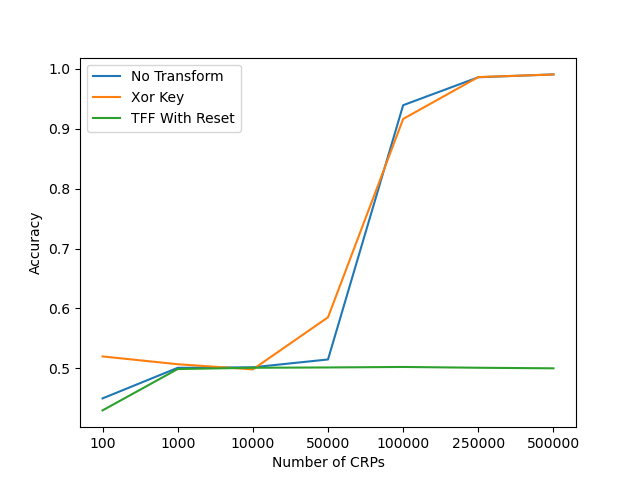
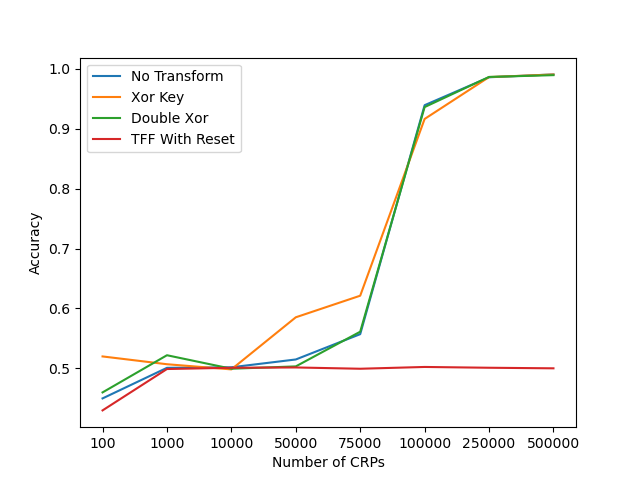
added double xor

diff --git a/__main__.py b/__main__.py
@@ -3,9 +3,9 @@ environ['TF_CPP_MIN_LOG_LEVEL'] = '3'
 import matplotlib.pyplot as plt
 
 from attacker import Attacker
-from CRPTransform import NoTransform, XorKeyTransform, TFFWithResetTransform, ElipticCurveTransform
+from CRPTransform import NoTransform, XorKeyTransform, DoubleXorTransform, TFFWithResetTransform, ElipticCurveTransform
 
-CRPNUMS = [100, 1000, 10000, 50000, 100000, 250000, 500000]
+CRPNUMS = [100, 1000, 10000, 50000, 75000, 100000, 250000, 500000]
 
 def main():
     notf_accuracies = []
@@ -19,6 +19,12 @@ def main():
         xor_key_attacker = Attacker(XorKeyTransform, key=0xfedcba0987654321, N=N, n=64, k=5)
         xor_key_attacker.fit_attack()
         xor_accuracies.append(xor_key_attacker.attack_accuracy())
+
+    double_xor_accuracies = []
+    for N in CRPNUMS:
+        double_xor_attacker = Attacker(DoubleXorTransform, key=0xfedcba0987654321, N=N, n=64, k=5)
+        double_xor_attacker.fit_attack()
+        double_xor_accuracies.append(double_xor_attacker.attack_accuracy())
     
     tf_accuracies = []
     for N in CRPNUMS:
@@ -26,20 +32,22 @@ def main():
         tff_attacker.fit_attack()
         tf_accuracies.append(tff_attacker.attack_accuracy())
 
-    plot_accuracies(notf_accuracies, xor_accuracies, tf_accuracies)
+    plot_accuracies(notf_accuracies, xor_accuracies, double_xor_accuracies, tf_accuracies)
 
     notf_entropy = notf_attacker.transform_entropy()
     xor_entropy = xor_key_attacker.transform_entropy()
+    double_xor_entropy = double_xor_attacker.transform_entropy()
     tf_entropy = tff_attacker.transform_entropy()
 
-    plot_entropies(notf_entropy, xor_entropy, tf_entropy)
+    plot_entropies(notf_entropy, xor_entropy, double_xor_entropy, tf_entropy)
 
     print("TODO: ELIPTIC CURVE ATTACKS")
 
-def plot_accuracies(notf_accuracies, xor_accuracies, tf_accuracies):
-    print("accuracies:", notf_accuracies, xor_accuracies, tf_accuracies)
+def plot_accuracies(notf_accuracies, xor_accuracies, double_xor_accuracies, tf_accuracies):
+    print("accuracies:", notf_accuracies, xor_accuracies, double_xor_accuracies, tf_accuracies)
     plt.plot(notf_accuracies, label="No Transform")
     plt.plot(xor_accuracies, label="Xor Key")
+    plt.plot(double_xor_accuracies, label="Double Xor")
     plt.plot(tf_accuracies, label="TFF With Reset")
     plt.xticks(list(range(len(CRPNUMS))), CRPNUMS)
     plt.xlabel("Number of CRPs")
@@ -48,10 +56,11 @@ def plot_accuracies(notf_accuracies, xor_accuracies, tf_accuracies):
     plt.savefig("figs/accuracies.png")
     plt.clf()
 
-def plot_entropies(notf_entropy, xor_entropy, tf_entropy):
-    print("entropies:", notf_entropy, xor_entropy, tf_entropy)
-    plt.bar(["No Transform", "Xor Key", "TFF With Reset"], [notf_entropy, xor_entropy, tf_entropy])
-    plt.legend()
+def plot_entropies(notf_entropy, xor_entropy, double_xor_entropy, tf_entropy):
+    print("entropies:", notf_entropy, xor_entropy, double_xor_entropy, tf_entropy)
+    plt.bar(["No Transform", "Xor Key", "Double Xor", "TFF With Reset"], 
+            [notf_entropy, xor_entropy, double_xor_entropy, tf_entropy])
+    plt.ylabel("Entropy")
     plt.savefig("figs/entropies.png")
     plt.clf()
 

diff --git a/CRPTransform.py b/CRPTransform.py
@@ -8,6 +8,18 @@ def XorKeyTransform(challenges, key):
     return array([[ 1 if challenge[i] != arrayed_key[i] else -1 
         for i in range(len(arrayed_key))] for challenge in challenges]), key # return the xor
 
+def DoubleXorTransform(challenges, key):
+    arrayed_key = [-1 if bit == '0' else 1 for bit in bin(key)[2:]] # '0' -> -1, '1' -> 1, 0b cut off
+    first = arrayed_key[:len(arrayed_key)//2] * 2
+    second = arrayed_key[len(arrayed_key)//2:] * 2
+    assert len(first) == len(second) == len(challenges[0])
+
+    for k in [first, second]:
+        challenges = array([[ 1 if challenge[i] != k[i] else -1 
+                        for i in range(len(k))] for challenge in challenges])
+
+    return challenges, key # return the xor
+
 def TFFWithResetTransform(challenges, key):
     new_challenges = []
     for challenge in challenges:
